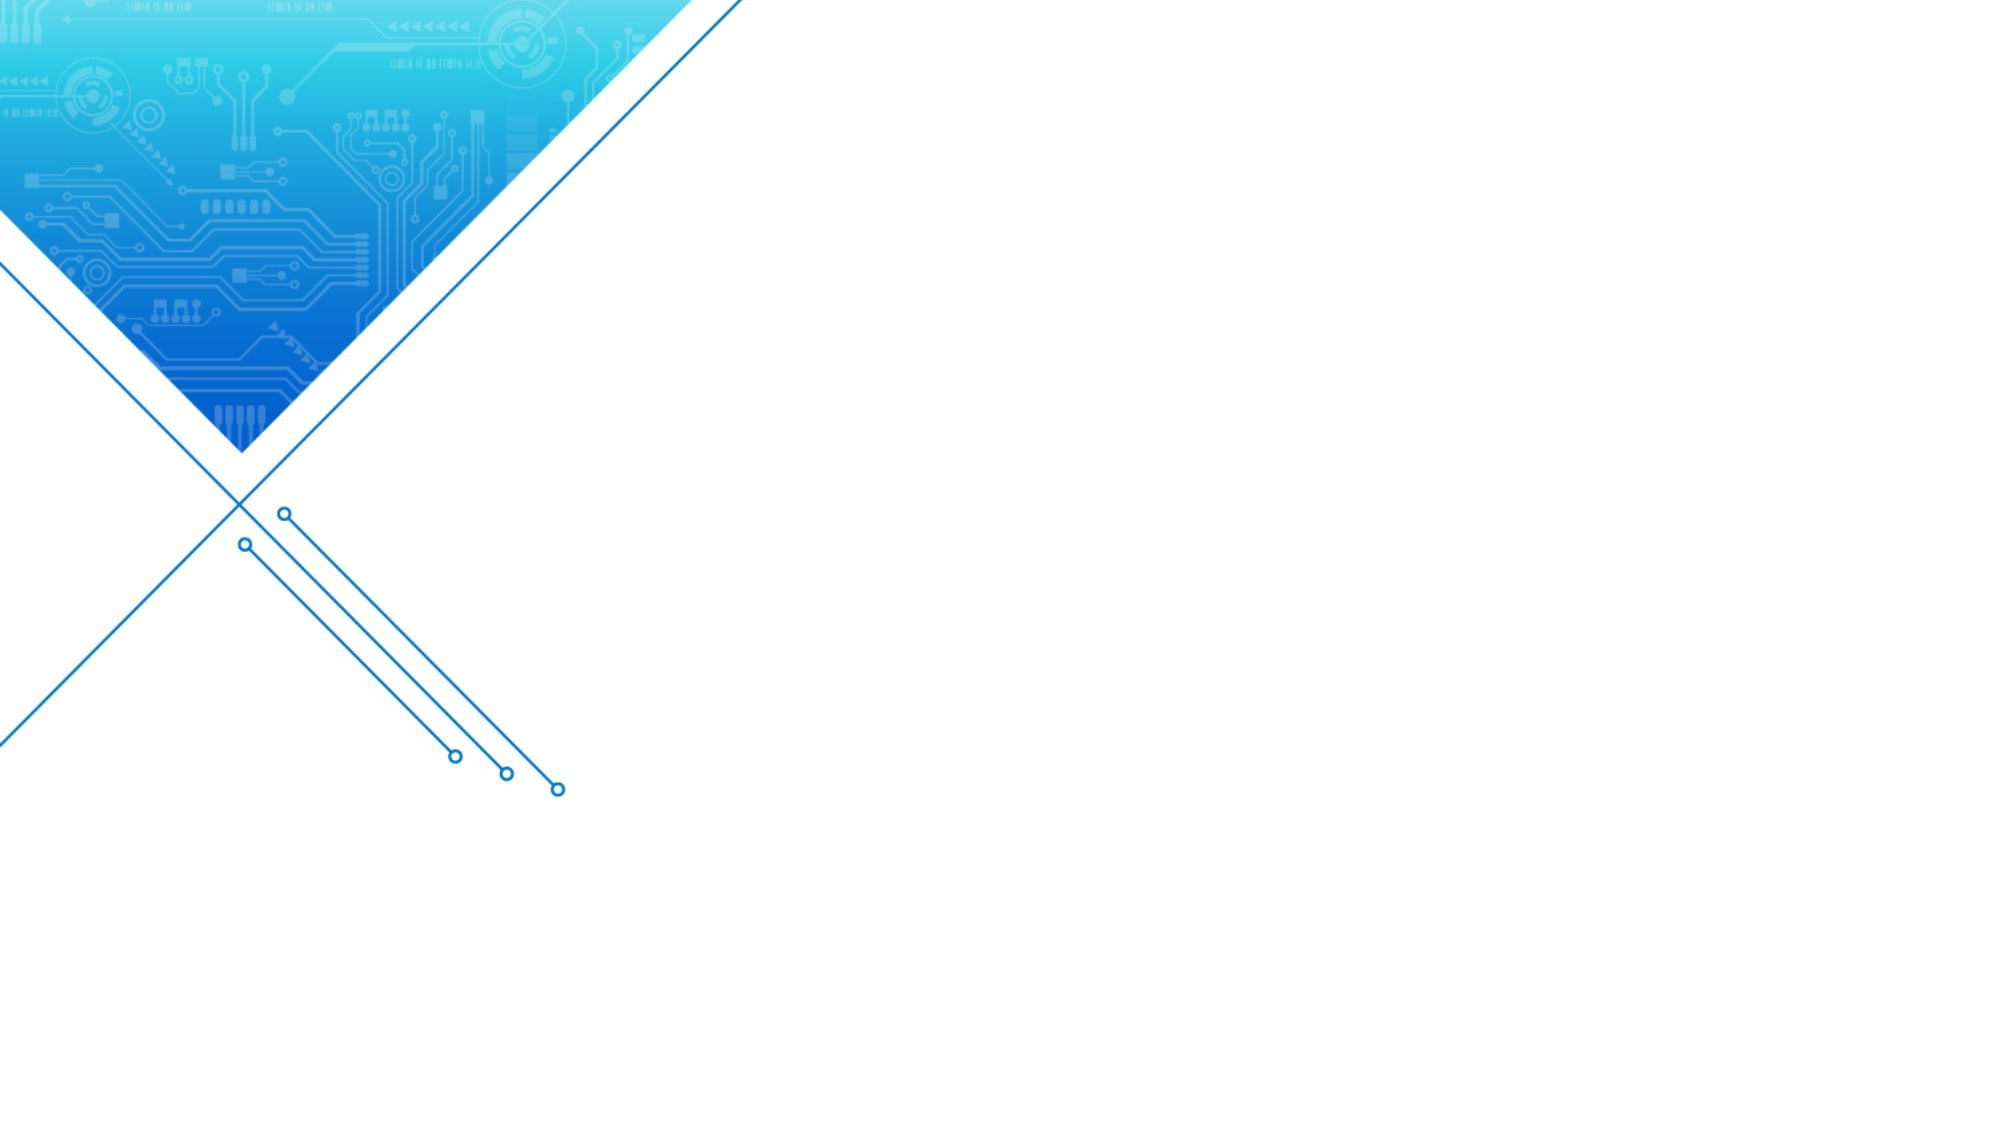
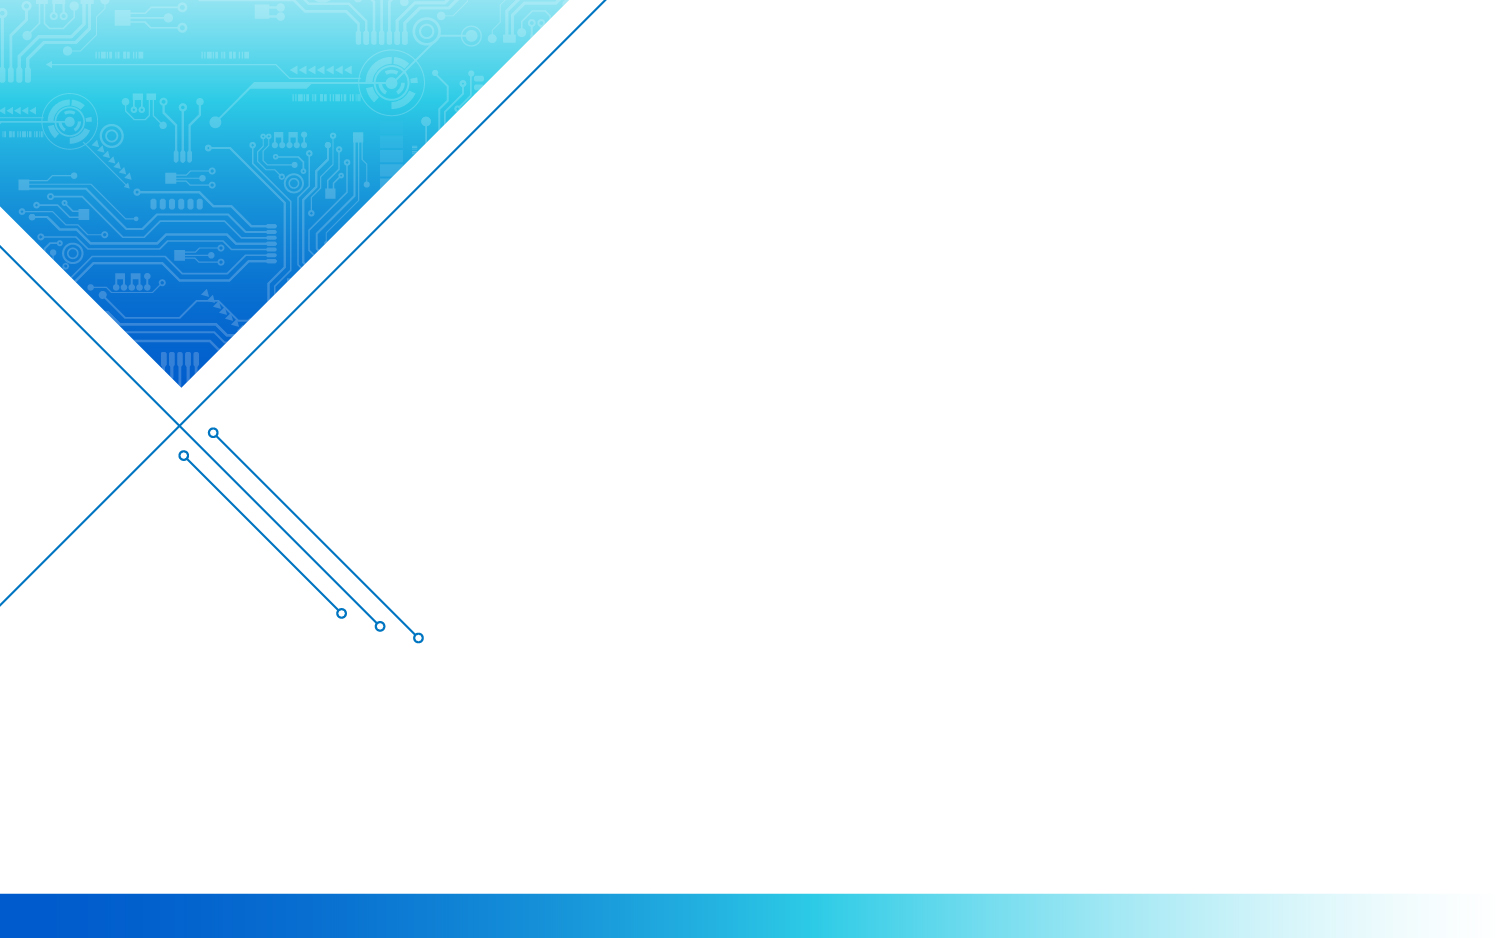
優化產出強茂模板品質

diff --git a/client/src/app/chat/components/DocumentCanvas.tsx b/client/src/app/chat/components/DocumentCanvas.tsx
@@ -377,6 +377,10 @@ export default function DocumentCanvas({
   const [previewType, setPreviewType] = useState<'html' | 'pdf' | 'other'>('html');
   const [previewLoading, setPreviewLoading] = useState(false);
   const [selectedPageIndex, setSelectedPageIndex] = useState(0);
+  // Mirror of selectedPageIndex so keyboard handlers can read the latest value
+  // without stale closures — and without calling parent setState inside a state updater.
+  const selectedPageIndexRef = useRef(0);
+  selectedPageIndexRef.current = selectedPageIndex;
   const [totalPages, setTotalPages] = useState(0);
   const [slideShapes, setSlideShapes] = useState<Record<number, ShapeRect[]>>({});
   const [selectedShapeId, setSelectedShapeId] = useState<string | null>(null);
@@ -661,21 +665,20 @@ export default function DocumentCanvas({
     if (maxPage === 0) return;
 
     const handleKey = (e: KeyboardEvent) => {
+      const cur = selectedPageIndexRef.current;
+      let next: number | null = null;
       if (e.key === 'ArrowLeft' || e.key === 'ArrowUp') {
         e.preventDefault();
-        setSelectedPageIndex(prev => {
-          const next = Math.max(0, prev - 1);
-          if (blocks[next]) onSelectBlock(blocks[next].id);
-          return next;
-        });
+        next = Math.max(0, cur - 1);
       } else if (e.key === 'ArrowRight' || e.key === 'ArrowDown') {
         e.preventDefault();
-        setSelectedPageIndex(prev => {
-          const next = Math.min(maxPage - 1, prev + 1);
-          if (blocks[next]) onSelectBlock(blocks[next].id);
-          return next;
-        });
+        next = Math.min(maxPage - 1, cur + 1);
       }
+      if (next === null || next === cur) return;
+      // Both setState calls happen in the event handler (not during render),
+      // and neither runs inside a state updater — so no cross-component setState warning.
+      setSelectedPageIndex(next);
+      if (blocks[next]) onSelectBlock(blocks[next].id);
     };
     window.addEventListener('keydown', handleKey);
     return () => window.removeEventListener('keydown', handleKey);

diff --git a/server/src/skills/pptx-gen/SKILL.md b/server/src/skills/pptx-gen/SKILL.md
@@ -166,8 +166,10 @@ If specific content (company names, **department / business-unit / division / gr
 If the task asks to use the **強茂 / PANJIT 官方企業範本** (PANJIT corporate template), you generate the deck **exactly like a normal presentation above** — same `new PptxGenJS()`, same default layout, same coordinate style, and the **full richness of the Style Constants, Slide Type Patterns, and Default Quality Standards** (diverse slide types, rich colours, stat cards, charts, full-bleed slides). The **only** thing that changes is a **branding skin** applied on top. Think: a normal, varied, colourful deck — just wearing PANJIT's cover, logo, blue title bar and footer.
 
 **Branding assets** (absolute paths — pass to `addImage({ path })`):
-- Cover artwork: `__PANJIT_ASSETS_DIR__/panjit-cover.jpg` — full-bleed 16:9; a blue circuit-board triangle sits top-left, and a large **WHITE area** on the right/centre is where the title goes.
-- Logo: `__PANJIT_ASSETS_DIR__/panjit-logo.png` — place small, top-right of content slides.
+- Cover artwork: `__PANJIT_ASSETS_DIR__/panjit-cover.jpg` — full-bleed 16:9; blue circuit triangle top-left + a gradient footer bar; a large **WHITE area** right/centre is where the title goes.
+- Closing artwork: `__PANJIT_ASSETS_DIR__/panjit-closing.jpg` — full-bleed 16:9 **official closing** (circuit triangle top-RIGHT, gradient footer bar, the PANJIT slogan already baked into the image). Use it **as-is** for the last slide — do NOT add a "Thank You" or any other title over it.
+- Logo: `__PANJIT_ASSETS_DIR__/panjit-logo.png` — top-right on content slides; **bottom-right** on the cover and closing.
+- Page-number wedge: `__PANJIT_ASSETS_DIR__/panjit-pagenum.png` — the gradient corner tab the page number sits on (bottom-right of every content slide).
 
 **Brand palette:** lead accent = brand blue `#0075C2` (supporting shades `17A2D6`, `5BC2E7`, `124E78`). Add greens / ambers / teals for variety — do **NOT** force every slide blue.
 
@@ -179,27 +181,41 @@ If the task asks to use the **強茂 / PANJIT 官方企業範本** (PANJIT corpo
 ```javascript
 const c = pptx.addSlide();
 c.addImage({ path: '__PANJIT_ASSETS_DIR__/panjit-cover.jpg', x: 0, y: 0, w: '100%', h: '100%' });
-c.addText(TITLE,    { x: '24%', y: '38%', w: '72%', h: '14%', fontSize: 34, bold: true, color: '0075C2' });
-c.addText(SUBTITLE, { x: '24%', y: '54%', w: '72%', h: '9%',  fontSize: 18, bold: true, color: '0075C2' });
+c.addText(TITLE,    { x: '24%', y: '36%', w: '72%', h: '14%', fontSize: 34, bold: true, color: '0075C2' });
+c.addText(SUBTITLE, { x: '24%', y: '52%', w: '72%', h: '9%',  fontSize: 18, bold: true, color: '0075C2' });
+c.addImage({ path: '__PANJIT_ASSETS_DIR__/panjit-logo.png', x: '84.7%', y: '82.5%', w: 1.13, h: 0.46 });   // logo bottom-right
 ```
 
-2. **Content (slides 2 … N-1)** — white bg, brand-blue title + underline, logo top-right, footer + page number; then fill the body richly (stat cards, charts, columns, callouts) edge-to-edge like your best normal decks:
+2. **Content (slides 2 … N-1)** — white bg with an **editorial header** (numbered kicker → dark-navy title → thin grey rule), logo top-right, footer + page number; then fill the body richly (stat cards, charts, columns, callouts) edge-to-edge like your best normal decks:
 ```javascript
 const s = pptx.addSlide();
 s.background = { color: 'FFFFFF' };
-s.addText(TITLE, { x: '4%', y: '4.5%', w: '68%', h: '9%', fontSize: 22, bold: true, color: '0075C2' });
-s.addShape(pptx.ShapeType.rect, { x: '4%', y: '15%', w: '92%', h: 0.03, fill: { color: '0075C2' } });
-s.addImage({ path: '__PANJIT_ASSETS_DIR__/panjit-logo.png', x: '84.5%', y: '4%', w: 1.15, h: 0.47 });
-// … your rich, varied content here (use the whole area below the underline) …
+// Editorial header: a numbered kicker on top (2-digit section no. in brand blue + a short
+// English label in grey, letter-spaced), then the title in DARK NAVY, then a thin grey rule.
+s.addText([
+  { text: SECTION_NO, options: { color: '0075C2', bold: true } },          // e.g. '01'
+  { text: '   ' + ENG_LABEL, options: { color: '8A93A0', bold: true } },   // e.g. 'MARKET SIZE'
+], { x: '4%', y: '6%', w: '78%', h: '5%', fontSize: 11, charSpacing: 2 });
+s.addText(TITLE, { x: '4%', y: '11%', w: '78%', h: '9%', fontSize: 24, bold: true, color: '1C2B36' });   // dark title, NOT blue
+s.addShape(pptx.ShapeType.rect, { x: '4%', y: '21%', w: '92%', h: 0.015, fill: { color: 'D5DBE0' } });   // thin light-grey divider
+s.addImage({ path: '__PANJIT_ASSETS_DIR__/panjit-logo.png', x: '84.5%', y: '5%', w: 1.15, h: 0.47 });
+// … your rich, varied content, starting BELOW the divider (around y '24%') …
 // PANJIT footer + page number (match the official template exactly):
-//   centred copyright line, and the page number in WHITE on a brand-blue block in the bottom-right corner.
+//   centred copyright line, and the page number in WHITE on the gradient corner wedge (bottom-right).
 s.addText('Copyright© 2020 PANJIT International Inc. All rights reserved.', { x: '15%', y: '93.5%', w: '70%', h: '5%', fontSize: 8, color: 'A9B2BC', align: 'center' });
-s.addShape(pptx.ShapeType.rect, { x: '91%', y: '91%', w: '9%', h: '9%', fill: { color: '0075C2' } });
-s.addText(String(pageNum),         { x: '91%', y: '91%', w: '9%', h: '9%', fontSize: 12, bold: true, color: 'FFFFFF', align: 'center', valign: 'middle' });
+s.addImage({ path: '__PANJIT_ASSETS_DIR__/panjit-pagenum.png', x: '89%', y: '90.6%', w: 1.1, h: 0.53 });
+s.addText(String(pageNum), { x: '91.5%', y: '90.6%', w: '8%', h: '9.4%', fontSize: 12, bold: true, color: 'FFFFFF', align: 'center', valign: 'middle' });
 ```
-> The page number **must** use this PANJIT style — a white bold number on the brand-blue corner block (bottom-right) — on every content slide, exactly like the official template.
+> The page number **must** use this PANJIT style — a white bold number on the gradient corner wedge (bottom-right) — on every content slide, exactly like the official template.
 
-3. **Closing (last slide) — MANDATORY, never skip it.** The deck's **final** slide MUST be the closing: reuse the full-bleed cover image + a "Thank You" line + the organisation line, in brand blue (same pattern as the cover). **Never end the deck on a content slide** — always finish with this closing slide.
+> **Header rules (important):** the header is three stacked, non-overlapping rows — **kicker** (`SECTION_NO` in brand blue + a short English `ENG_LABEL` in grey) on top, then the **title** in dark navy, then the **thin grey divider** as the lowest header element. Nothing may overlap: keep the kicker above the title, the title above the divider, and never draw text on the divider. Give each content slide a running 2-digit section number (`01`, `02`, …). If you have no clean English label, use the number alone (or a short Chinese label); the divider stays thin and light-grey (not a thick blue bar).
+
+3. **Closing (last slide) — MANDATORY, never skip it.** The deck's **final** slide MUST be the official closing artwork, used **as-is** (the PANJIT slogan is already baked into the image), with only the logo bottom-right. **Do NOT overlay "Thank You" or any other title** — the image is already complete. **Never end the deck on a content slide.**
+```javascript
+const e = pptx.addSlide();
+e.addImage({ path: '__PANJIT_ASSETS_DIR__/panjit-closing.jpg', x: 0, y: 0, w: '100%', h: '100%' });
+e.addImage({ path: '__PANJIT_ASSETS_DIR__/panjit-logo.png', x: '84.7%', y: '82.5%', w: 1.13, h: 0.46 });
+```
 
 **Design like a normal deck (READ THIS):** apply the full **Style Constants + Slide Type Patterns + Default Quality Standards** above — varied slide types (stats / two-column / three-column / section / quote), rich supporting palette, charts, section dividers, and **FULL-BLEED content (no big empty white bands)**. It must look as diverse and polished as your best non-templated decks. Brand blue leads; other colours support.
 
